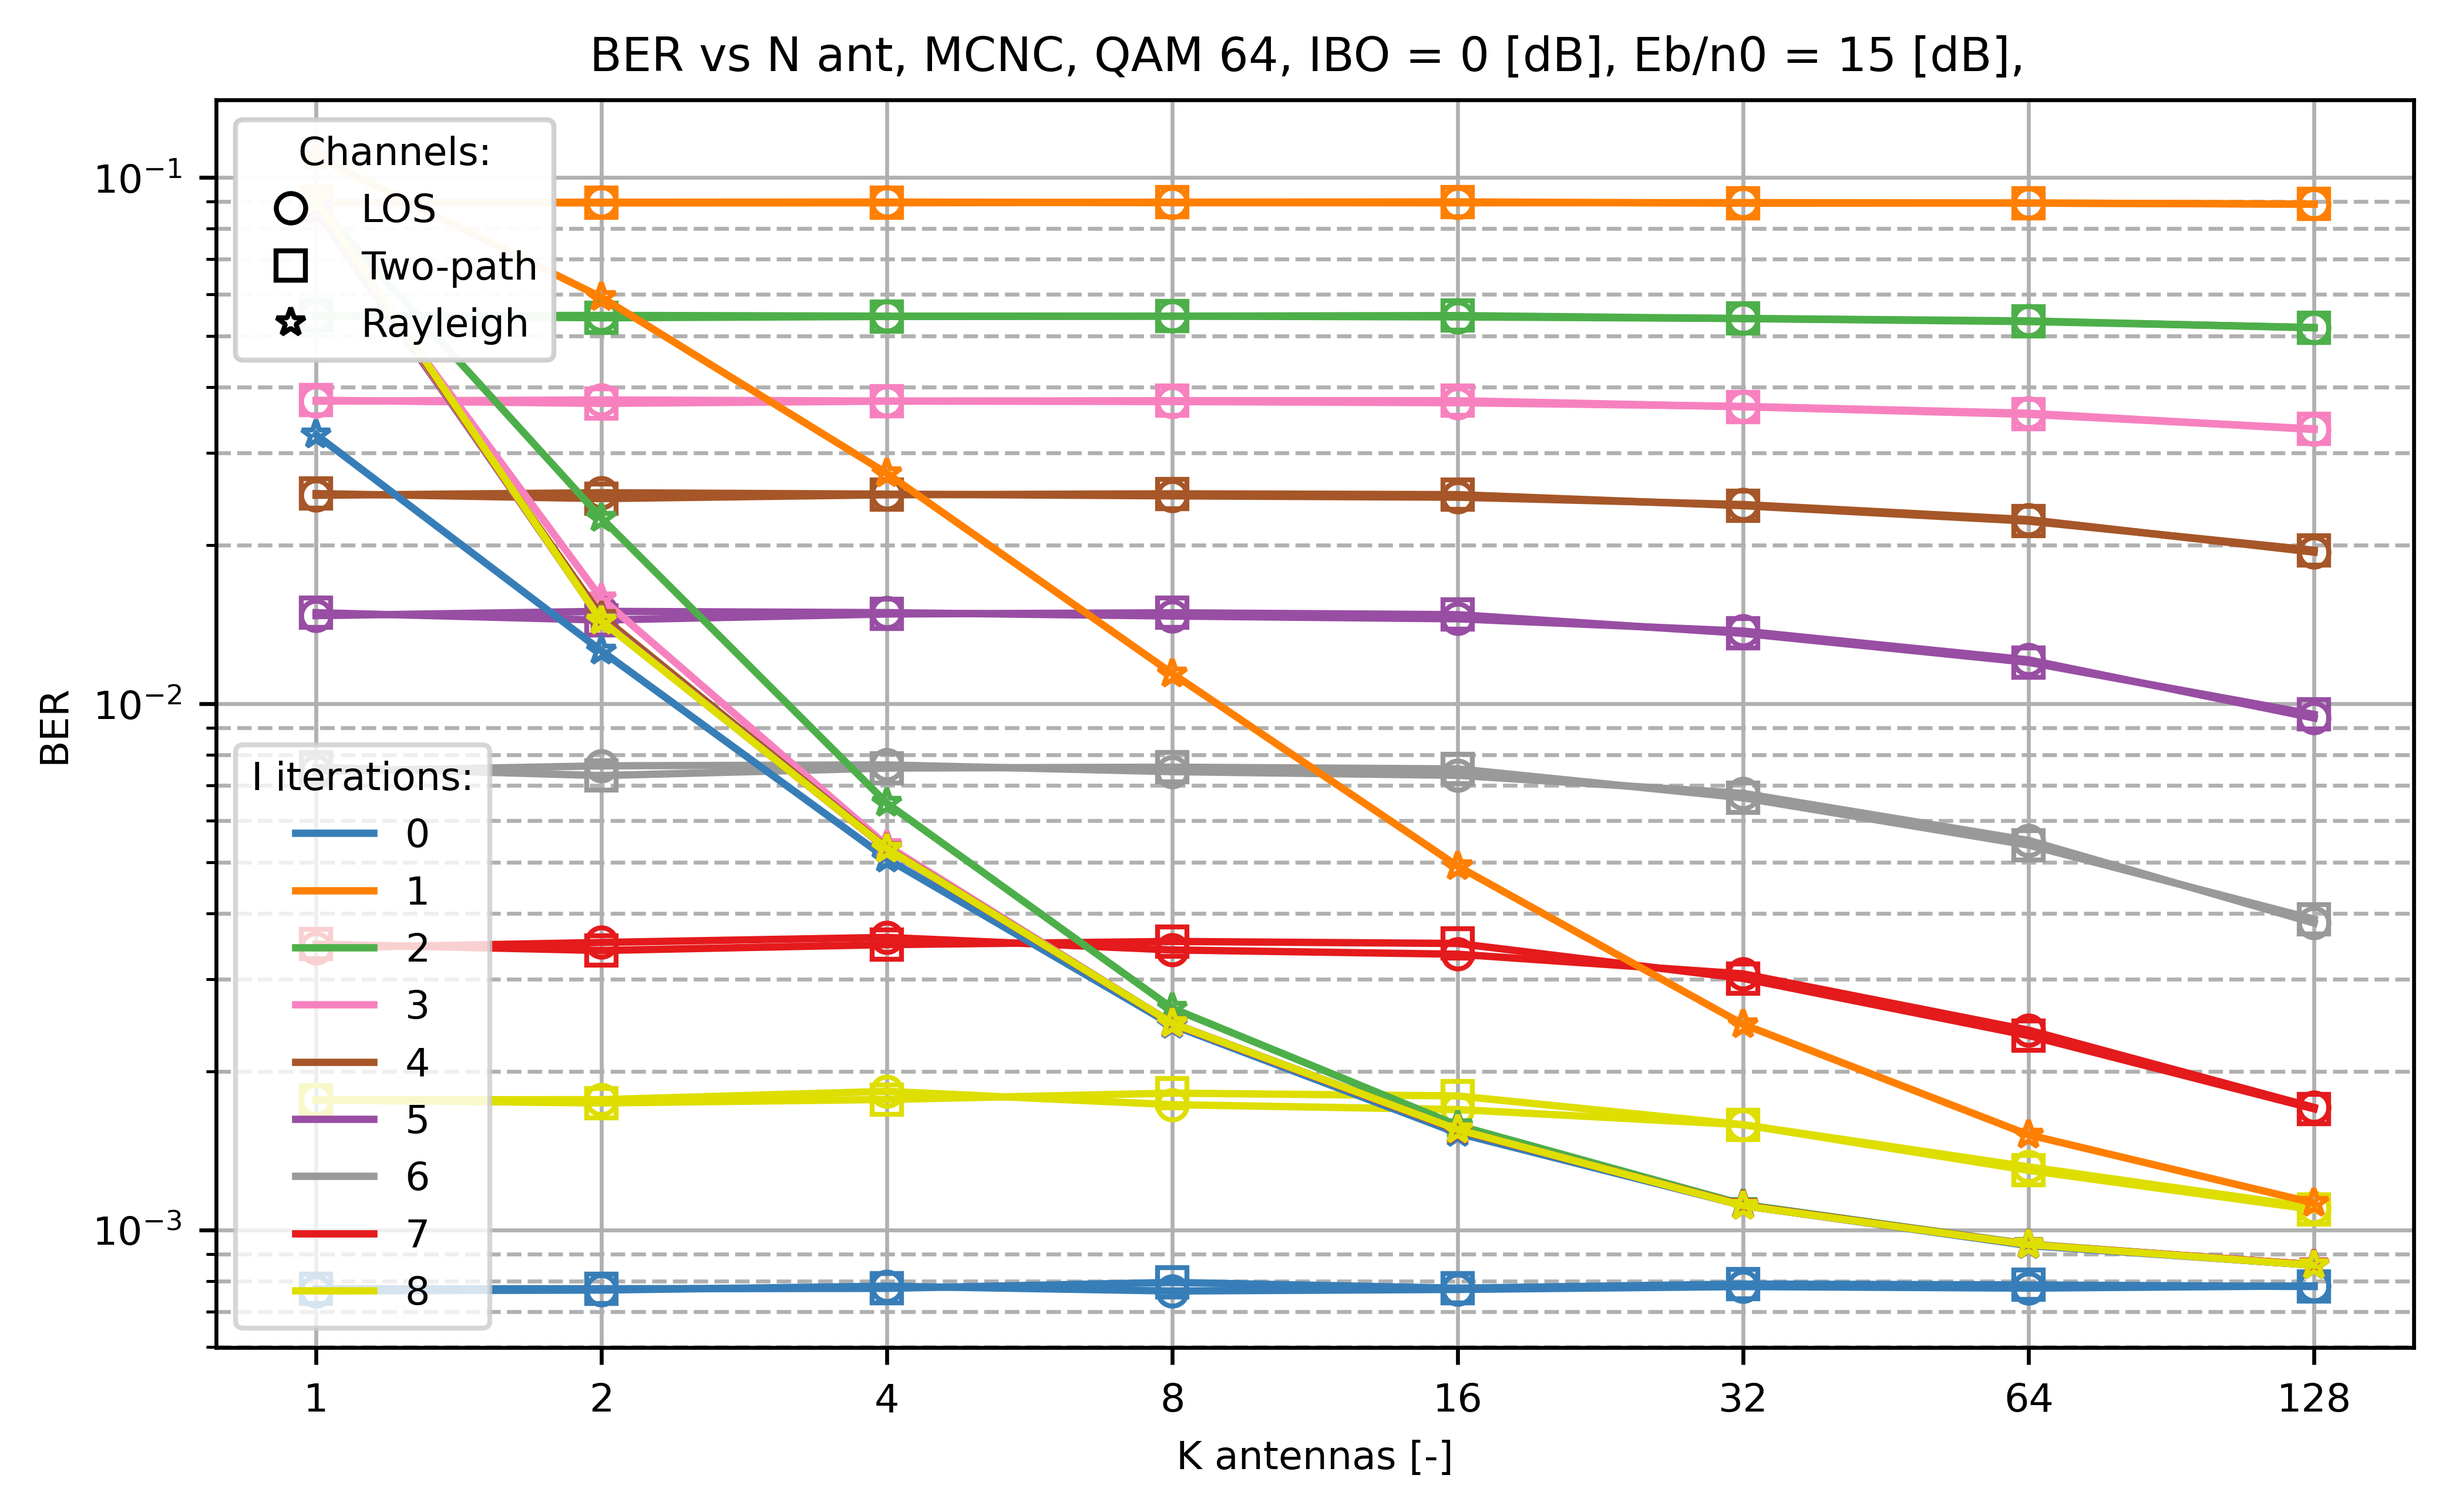
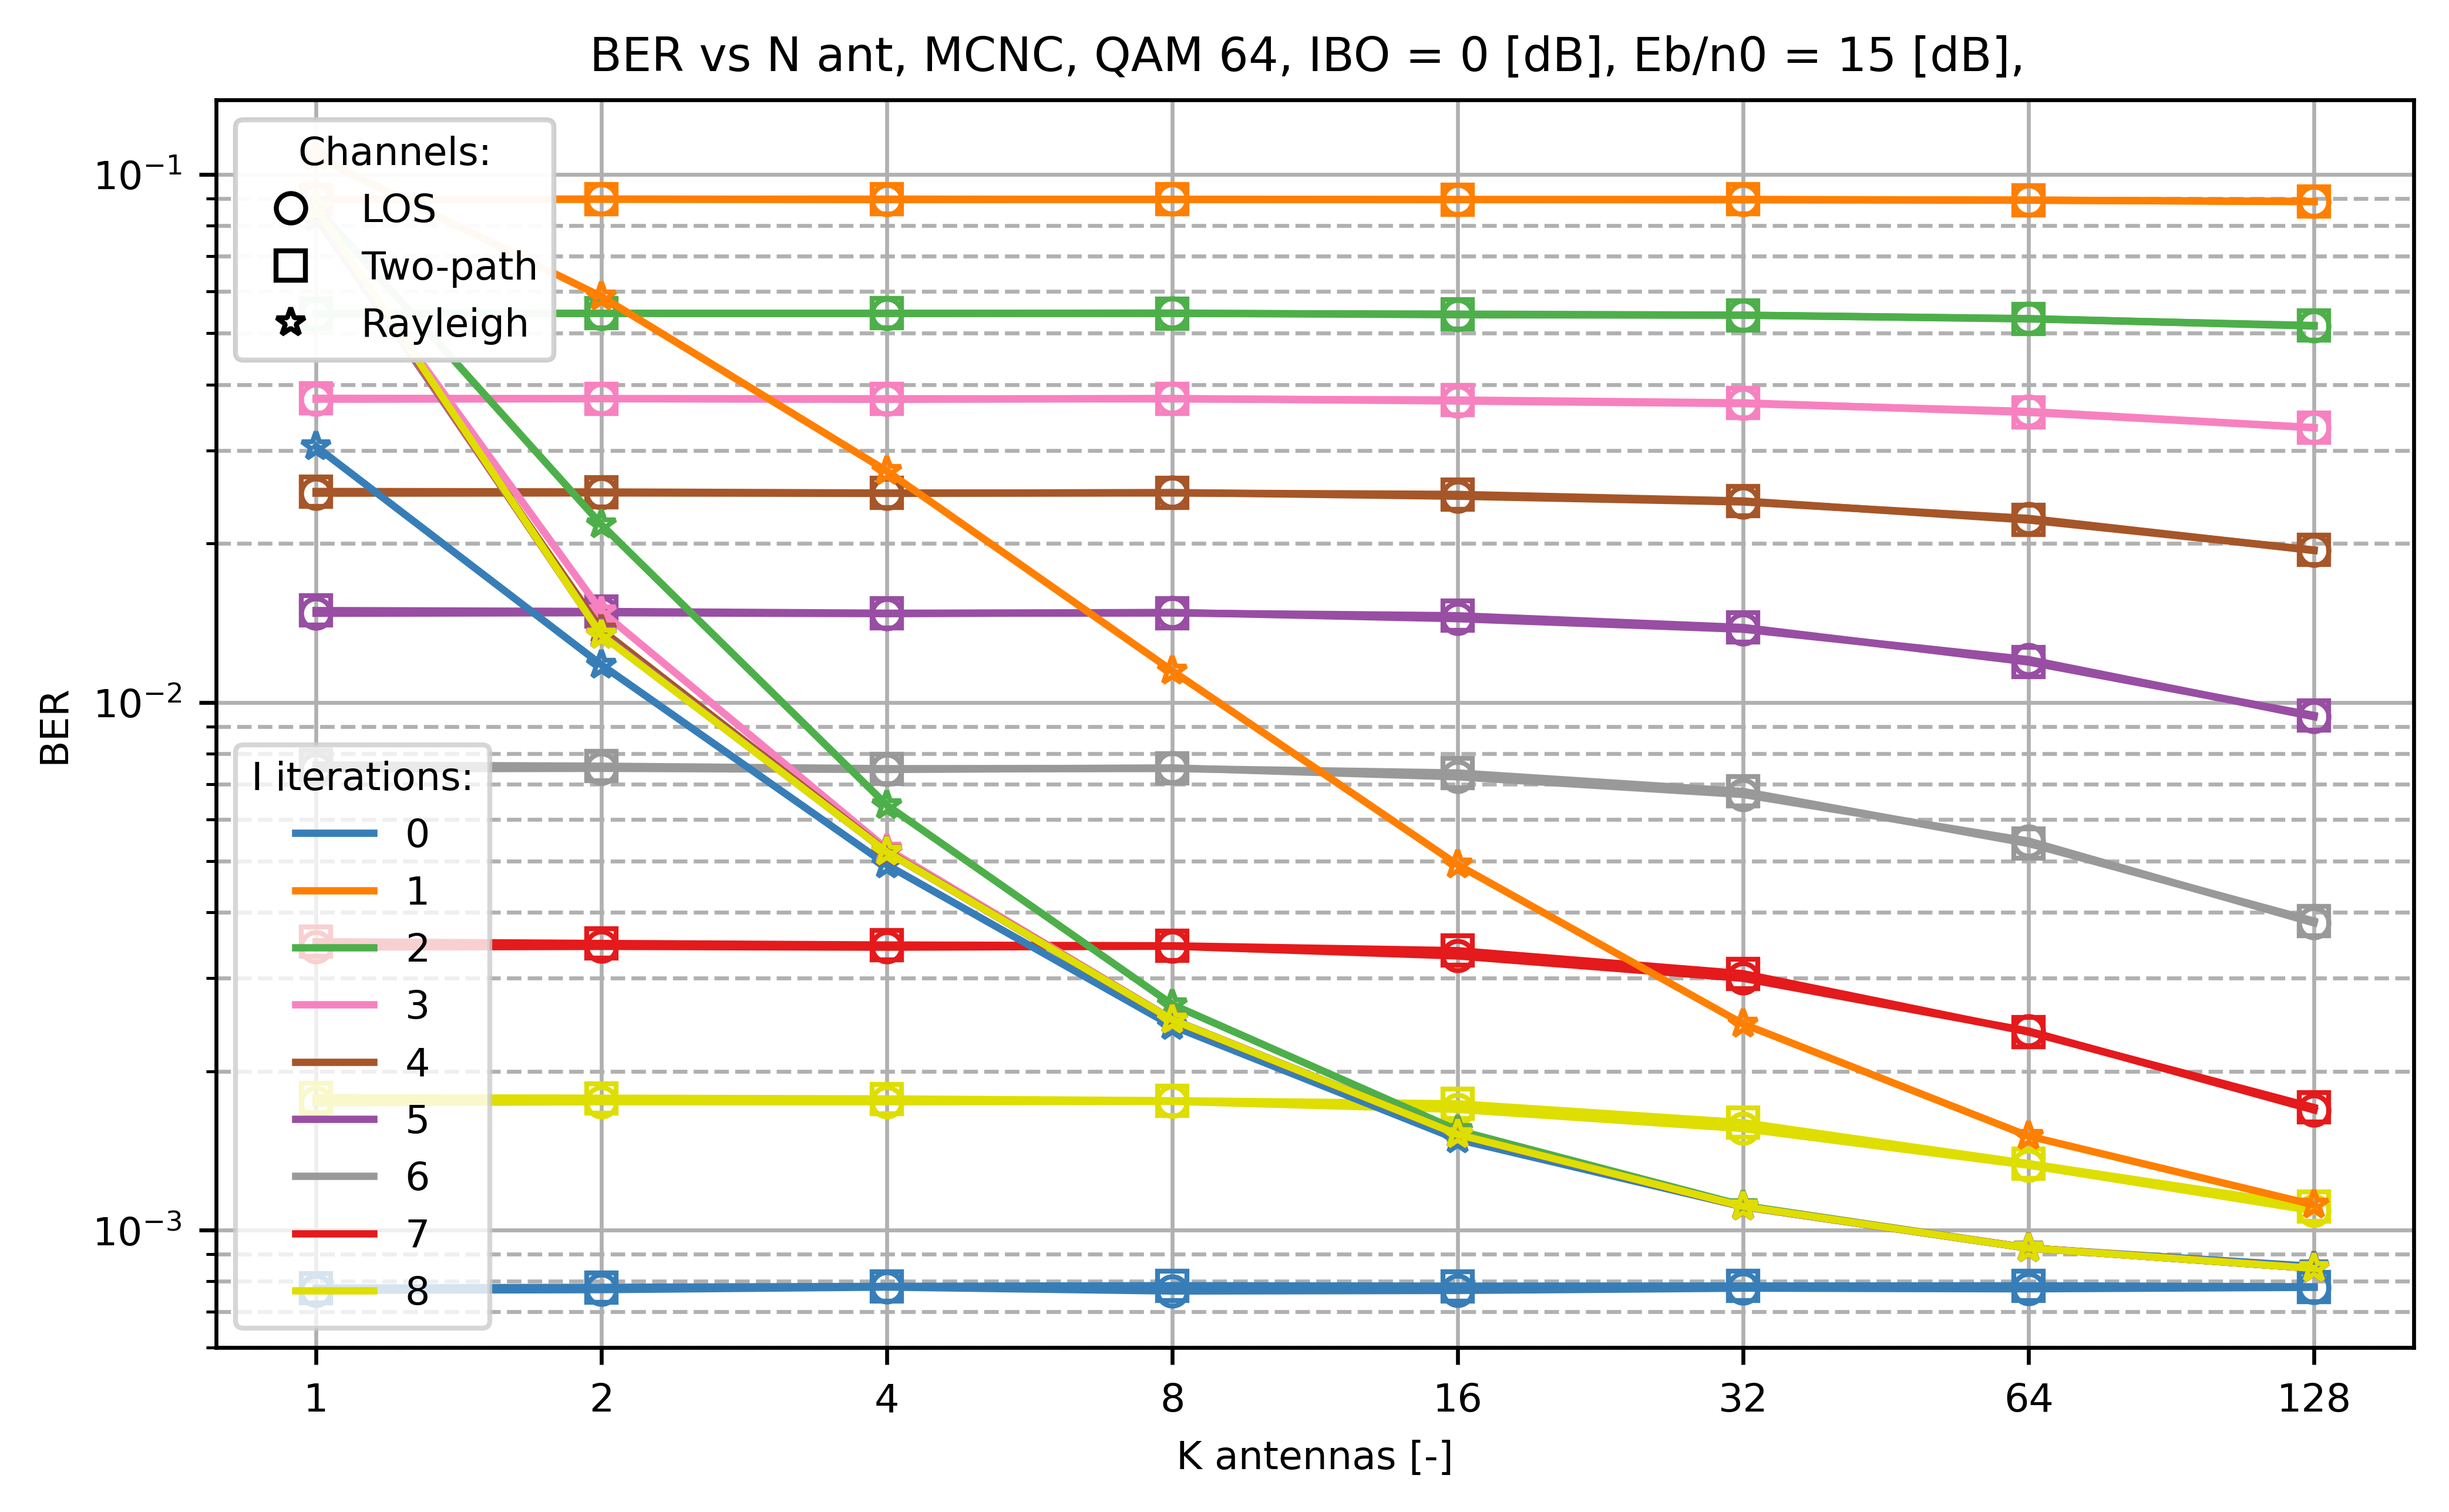
mcnc with chan reroll detailed results upload

diff --git a/main_mp_clipping_noise_cancellation/main_mp_miso_mcnc_ber_vs_nant_vs_chan.py b/main_mp_clipping_noise_cancellation/main_mp_miso_mcnc_ber_vs_nant_vs_chan.py
@@ -38,7 +38,7 @@ if __name__ == '__main__':
     # standard RX
     cnc_n_iter_lst = np.insert(cnc_n_iter_lst, 0, 0)
     incl_clean_run = True
-    reroll_chan = False
+    reroll_chan = True
     # print("Eb/n0 value:", ebn0_db)
     # print("CNC N iterations:", cnc_n_iter_lst)
     # print("IBO values:", ibo_arr)
@@ -50,8 +50,8 @@ if __name__ == '__main__':
     cp_len = 128
 
     # BER accuracy settings
-    bits_sent_max = int(2e7)
-    n_err_min = int(1e6)
+    bits_sent_max = int(10e7)
+    n_err_min = int(3e6)
 
     rx_loc_x, rx_loc_y = 212.0, 212.0
     rx_loc_var = 10.0

diff --git a/vm_scripts/vm_runner.py b/vm_scripts/vm_runner.py
@@ -13,7 +13,7 @@ filename_str_lst = [
     # "main_mp_clipping_noise_cancellation/main_mp_miso_cnc_ber_vs_nant_vs_chan.py",
 
     # "main_mp_clipping_noise_cancellation/main_mp_miso_mcnc_ber_vs_ebn0.py",
-    "main_mp_clipping_noise_cancellation/main_mp_miso_cnc_ber_vs_nant_vs_chan.py"
+    "main_mp_clipping_noise_cancellation/main_mp_miso_mcnc_ber_vs_nant_vs_chan.py"
     # "main_mp_clipping_noise_cancellation/main_mp_miso_mcnc_ber_vs_ibo.py"
     # "main_mp_clipping_noise_cancellation/main_mp_miso_mcnc_constant_ber_req_ebn0_vs_ibo.py",
 ]
